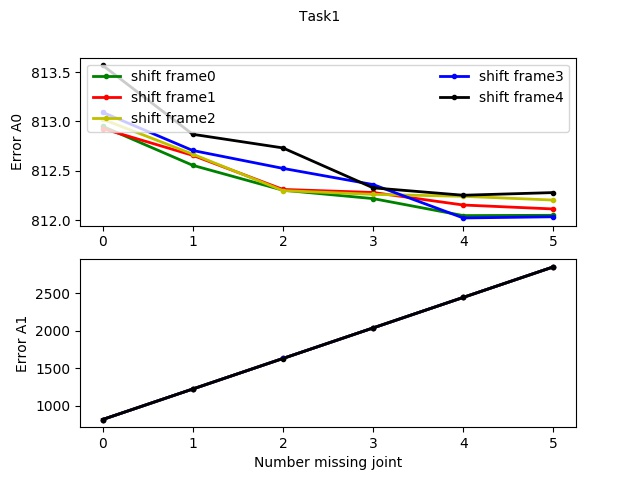
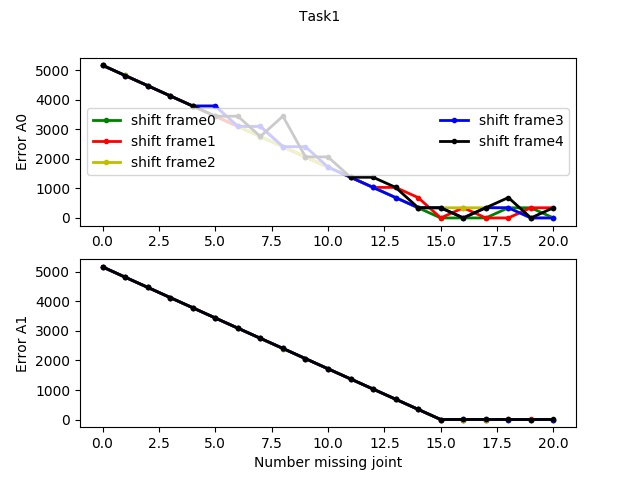
edit 1

diff --git a/PoseInterpolation.py b/PoseInterpolation.py
@@ -8,14 +8,17 @@ if __name__ == '__main__':
 
 	Tracking2D  = read_tracking_data(arg.data_dir, arg.ingore_confidence)
 	Tracking2D = Tracking2D.astype(float)
+	full_list = find_full_matrix(Tracking2D, 20)
+	print(full_list)
 	# method 1
+
 	M1_resultA1 = []
 	M1_resultA0 = []
 	# method 2
 	M2_resultA1 = []
 	M2_resultA0 = []
 	# A_N = np.copy(Tracking2D[arg.reference[0]:arg.reference[0]+arg.AN_length]) 	# this code for task 3 method 1
-	for current_frame_shift in arg.shift_arr:
+	for current_frame_shift in range (arg.length+1):
 		M1_tmpA1 = []
 		M1_tmpA0 = []
 		M2_tmpA1 = []

diff --git a/arguments.py b/arguments.py
@@ -8,7 +8,7 @@ class arguments(argparse.Namespace):
 	# data_dir = './data1/04_0_BogMue.data'
 	data_dir = input_dir + '/' + output_video + ".data"
 	#task 1 3
-	reference  = [17, 507]
+	reference  = [477, 497]
 	length = 20
 	AN_length = 50
 	shift_arr = [0, 1, 2, 3, 4, 5, length]
